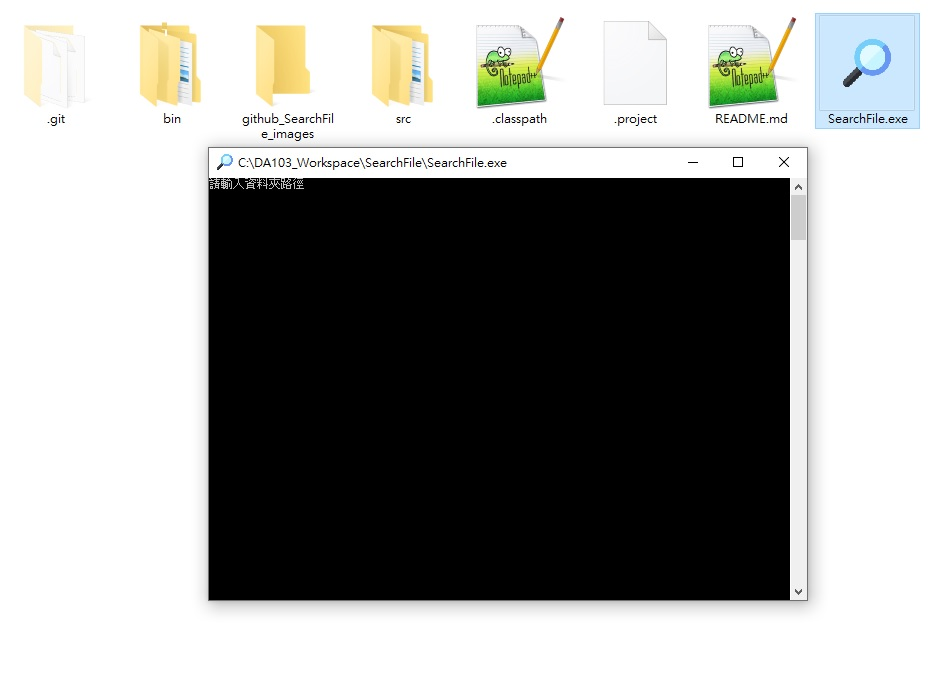
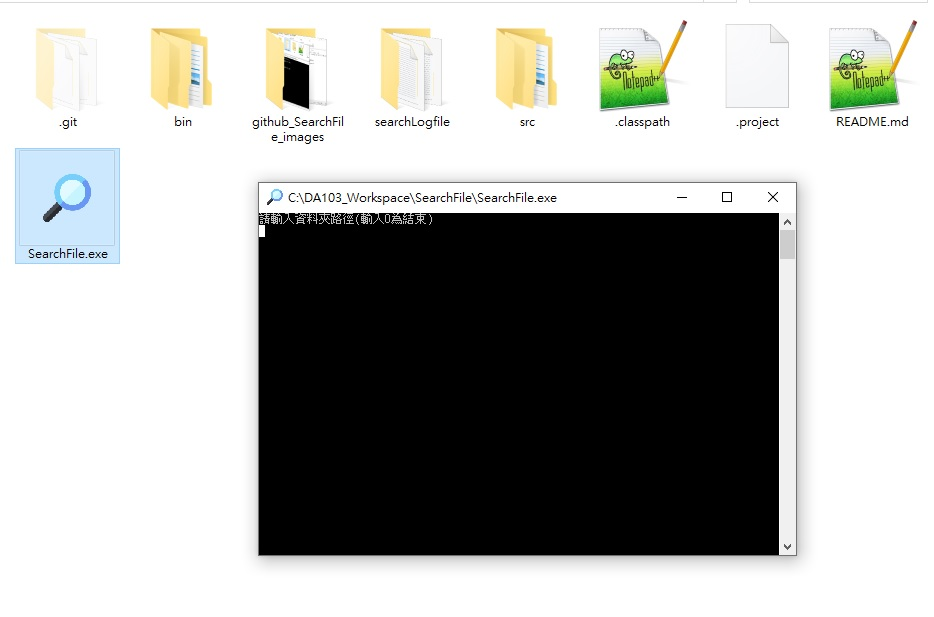
update

Changed region(s): [[0.1247, 0.0, 0.9978, 0.9238], [0.0, 0.1848, 0.1559, 0.4311], [0.0, 0.0308, 0.0935, 0.1848]]

diff --git a/README.md b/README.md
@@ -21,3 +21,6 @@
 - 程式列出搜尋到的檔案並輸出記錄檔
 <div align="center"> <img src="https://github.com/Lewis-Tseng/Practice-SearchFile/blob/master/github_SearchFile_images/05.jpg" witth="800"/> </div>
 <div align="center"> <img src="https://github.com/Lewis-Tseng/Practice-SearchFile/blob/master/github_SearchFile_images/06.JPG" witth="800"/> </div>
+
+- 輸入0結束此資料夾搜尋並重新回到輸入資料夾位置
+<div align="center"> <img src="https://github.com/Lewis-Tseng/Practice-SearchFile/blob/master/github_SearchFile_images/04.JPG" witth="800"/> </div>
